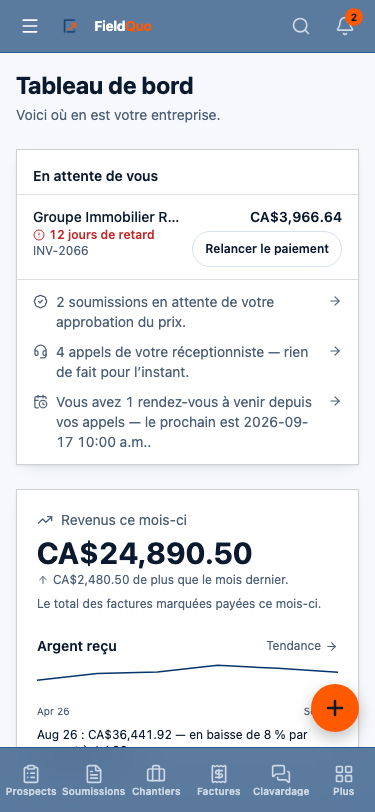
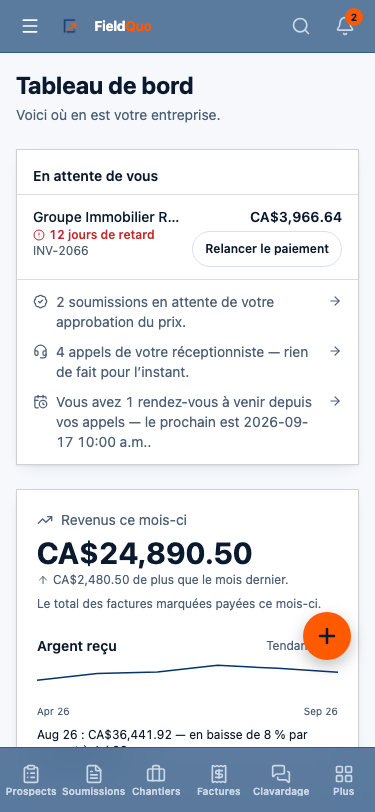
WIP: dates once, phone toolbar thinned, the added service opens, ROADMAP

Changed region(s): [[0.792, 0.7389, 0.968, 0.9236]]

diff --git a/app/components/quotes/builder/DocumentBuilder.js b/app/components/quotes/builder/DocumentBuilder.js
@@ -504,6 +504,19 @@ export default function DocumentBuilder({ b }) {
   const [templateOpen, setTemplateOpen] = useState(false);
   const [menuError, setMenuError] = useState("");
   const groupRefs = useRef({});
+  // A service added from the cards or the tiles opens unfolded — the next
+  // thing the estimator does is add a room or a line, not click "Edit".
+  const [openNext, setOpenNext] = useState(false);
+  const groupCount = b.scopeGroups.length;
+  useEffect(() => {
+    if (!openNext || groupCount === 0) return;
+    setOpenGroup(b.scopeGroups[groupCount - 1].tempId);
+    setOpenNext(false);
+  }, [openNext, groupCount, b.scopeGroups]);
+  const addAndOpen = (fn) => (...args) => {
+    fn(...args);
+    setOpenNext(true);
+  };
 
   // A room click opens the group's takeoff and lands on that room's card.
   useEffect(() => {
@@ -754,31 +767,40 @@ export default function DocumentBuilder({ b }) {
               ) : null}
             </button>
           )}
-          <button
-            type="button"
-            onClick={() => b.handleSave("draft")}
-            disabled={Boolean(b.saving) || (!isEdit && (!b.selectedClient || b.scopeGroups.length === 0))}
-            className="inline-flex items-center gap-1.5 border border-border text-foreground px-4 py-1.5 rounded-full text-sm font-semibold disabled:opacity-60"
-            data-doc-save
-          >
-            {b.saving === "draft" ? <Loader2 size={14} className="animate-spin" /> : <Save size={14} />}
-            {isEdit ? t("app.quoteEdit.saveChangesShort") : t("app.quoteNew.saveAsDraftShort")}
-          </button>
-          <SendMenu
-            primary={
-              sendable
-                ? {
-                    label: t("app.quoteNew.saveAndSend"),
-                    icon: Send,
-                    busy: b.saving === "sent",
-                    disabled: Boolean(b.saving) || (!isEdit && (!b.selectedClient || b.scopeGroups.length === 0)),
-                    onClick: () => b.handleSave("sent"),
-                  }
-                : null
-            }
-            menuLabel={sendable ? t("app.sendMenu.more", "Send…") : t("app.sendMenu.moreDecided", "More…")}
-            items={menuItems}
-          />
+          {/* Save and Save & send live here from sm up. On a phone the
+              dock at the foot already holds both under the thumb, so the
+              toolbar keeps only the menu — two Save buttons on one 375px
+              screen is the row the owner asked to have thinned. */}
+          <div className="hidden sm:flex items-center gap-2">
+            <button
+              type="button"
+              onClick={() => b.handleSave("draft")}
+              disabled={Boolean(b.saving) || (!isEdit && (!b.selectedClient || b.scopeGroups.length === 0))}
+              className="inline-flex items-center gap-1.5 border border-border text-foreground px-4 py-1.5 rounded-full text-sm font-semibold disabled:opacity-60"
+              data-doc-save
+            >
+              {b.saving === "draft" ? <Loader2 size={14} className="animate-spin" /> : <Save size={14} />}
+              {isEdit ? t("app.quoteEdit.saveChangesShort") : t("app.quoteNew.saveAsDraftShort")}
+            </button>
+            <SendMenu
+              primary={
+                sendable
+                  ? {
+                      label: t("app.quoteNew.saveAndSend"),
+                      icon: Send,
+                      busy: b.saving === "sent",
+                      disabled: Boolean(b.saving) || (!isEdit && (!b.selectedClient || b.scopeGroups.length === 0)),
+                      onClick: () => b.handleSave("sent"),
+                    }
+                  : null
+              }
+              menuLabel={sendable ? t("app.sendMenu.more", "Send…") : t("app.sendMenu.moreDecided", "More…")}
+              items={menuItems}
+            />
+          </div>
+          <div className="sm:hidden">
+            <SendMenu menuLabel={sendable ? t("app.sendMenu.more", "Send…") : t("app.sendMenu.moreDecided", "More…")} items={menuItems} />
+          </div>
         </div>
       </div>
 
@@ -867,8 +889,8 @@ export default function DocumentBuilder({ b }) {
           {b.paintingFirst && (
             <EstimateTypeFirst
               categories={b.categories}
-              onPickType={b.addPaintingEstimate}
-              onAddOther={(category, label) => b.addScopeGroup(category, label)}
+              onPickType={addAndOpen(b.addPaintingEstimate)}
+              onAddOther={addAndOpen((category, label) => b.addScopeGroup(category, label))}
               documentLanguage={b.quoteLanguage}
             />
           )}
@@ -878,12 +900,11 @@ export default function DocumentBuilder({ b }) {
               word={labels.quote}
               number={start.quoteNumber}
               numberPlaceholder={t("app.docBuilder.numberOnSave", "Numbered on first save")}
-              meta={meta}
+              // The dates print once, in the facts panel beside the client
+              // (as the quote page draws them), not under the number as well.
               edit={{
                 company: canEditCompany ? () => setEditing((e) => (e === "company" ? null : "company")) : null,
                 companyLabel: t("app.docBuilder.editCompany", "Edit company details"),
-                meta: () => setEditing((e) => (e === "validUntil" ? null : "validUntil")),
-                metaLabel: t("app.quoteEdit.validUntil"),
               }}
             />
             {editing === "company" && (
@@ -913,7 +934,7 @@ export default function DocumentBuilder({ b }) {
                   ? { label: labels.jobAddress, value: b.siteAddress, placeholder: t("app.quoteNew.jobAddressPlaceholder", "Start typing the job address…") }
                   : null
               }
-              facts={meta.map((m) => [m.label, m.value])}
+              facts={meta.length ? meta.map((m) => [m.label, m.value]) : [[labels.validUntil, t("app.quoteNew.validUntilCleared")]]}
               clientSlot={
                 !b.selectedClient || (!isEdit && editing === "client") ? (
                   <div className="mt-2" data-tour="client-picker">
@@ -1158,10 +1179,10 @@ export default function DocumentBuilder({ b }) {
                     <div className="mt-3">
                       <ServiceTiles
                         categories={b.categories}
-                        onAdd={(category, label) => {
+                        onAdd={addAndOpen((category, label) => {
                           b.addScopeGroup(category, label);
                           setShowTiles(false);
-                        }}
+                        })}
                         documentLanguage={b.quoteLanguage}
                       />
                       {b.scopeGroups.length > 0 && (

diff --git a/app/components/quotes/builder/QuoteTotalsBar.js b/app/components/quotes/builder/QuoteTotalsBar.js
@@ -525,8 +525,9 @@ export function QuoteActionsDock({
   return (
     <>
       {/* left-60 clears the desktop sidebar; full width below that breakpoint
-          where the sidebar collapses. lg:left-60, not sm: — AdminSidebar only
-          becomes a rail at `lg` (hidden lg:flex). */}
+          where the sidebar collapses. lg:left-64, not sm: — AdminSidebar only
+          becomes a rail at `lg` (hidden lg:flex), and the 2026-09-21 shell's
+          rail is w-64; the old left-60 put the bar's first 16px under it. */}
       {/* ── This bar is a "bottom dock" ──────────────────────────────────
           It sits at bottom: var(--fq-tab-bar-height) — 0 from lg up, the
           tab bar's footprint below it — and hands its own measured height
@@ -555,7 +556,7 @@ export function QuoteActionsDock({
       <div
         ref={dockRef}
         data-tour="totals"
-        className="fixed bottom-[var(--fq-tab-bar-height)] left-0 right-0 lg:left-60 bg-card border-t border-border px-4 sm:px-6 py-3 flex flex-col gap-2 sm:flex-row sm:items-center sm:justify-between sm:gap-3 z-40"
+        className="fixed bottom-[var(--fq-tab-bar-height)] left-0 right-0 lg:left-64 bg-card border-t border-border px-4 sm:px-6 py-3 flex flex-col gap-2 sm:flex-row sm:items-center sm:justify-between sm:gap-3 z-40"
       >
         <div className="flex items-baseline justify-between gap-3 min-w-0 sm:block" data-totals-figure>
           <div className="text-[11px] text-muted-foreground leading-none">

diff --git a/docs/ROADMAP.md b/docs/ROADMAP.md
@@ -1,6 +1,6 @@
 # FieldQuo — current phase and what's left
 
-Last updated: 22 September 2026 (the /app shell reorganised — a rail of 17 rows in five groups (Work · People · Money · Grow · AI) with everything else on a More page of four tiles, the settings list sliding INTO the one rail with Back (Roofr's mechanic, with Settings kept lit), a real /app/settings index of eight cards with search, a 52px top bar with `/` search over records + pages + settings, Create, the bell and an avatar menu holding Help/Plan/Settings/Appearance/Log out, the phone's More as a bottom sheet over the tab bar and a floating Create, trade gating held to one table (`ROW_TRADE_GATE`) that names no AI/schedule/money/people row, and `check:shell` proving every one of the 42 + 44 old destinations is still ≤ 2 taps away — see "The shell" below; previous line: /compare: FieldQuo vs Roofr and FieldQuo vs PaintScout, both read off the served pricing pages from a Canadian connection on 2026-09-21 before a word of copy was written — Roofr's SMS $49, Instant Estimator $149, Roofr Sites $99 and AI Receptionist $99 totalled as $396/mo of add-ons on /compare and /pricing, its $0 Starter and unlimited users conceded and its per-report measurement fees printed per report; PaintScout's $119 + $20 a user priced in the open for a shop of eleven, its Operations add-on sold separately, a `paint_takeoff` matrix entry with nine names; a new pricing unit (`UNIT_FLAT_PLUS_USAGE`) and `billsPerHead()` so no page says "they bill every login" about a vendor whose page says unlimited users; see "/compare: FieldQuo vs Roofr and FieldQuo vs PaintScout" below; previous line: the job plan, change orders with remote approval, and the client progress view: an approved quote becomes one step per line and per ticked option with hours from the takeoff, painting dependencies, a hold reason and a crew day view, gated server-side so a step cannot start before what it waits on; a change order is sent by SMS + email to a one-page addendum the homeowner signs, holds its step until signed, adds or edits a step on approval and bills as a labelled "Change order CO-2 · …" line; the portal shows the job as Done · In progress · Waiting on with the crew's photos and the change orders waiting on the client — see "The job plan" below; previous line: the quote builder's text-block library — nine painting starters in EN/FR/ES seeded once per painting company, searchable from "+ Add area or line item" beside the trade chips and the products, rich text drawn on the PDF, the email, the approval page and the detail page, priced by hours, quantity, a custom amount or not at all, "hidden on work order" carried on the line, a block translated ONCE into a quote's other language and the reviewed text stored on the block; the quote page's Send… split button — preview as client, share with staff through the crew chat, create invoice, save as template, copy link, download PDF, copy, archive; QuoteTemplate rows offered on every new quote; Quote.siteAddress prefilled for a homeowner, required for a company client, printed as "Job address", handed to the Job and geocoded there, read by the satellite measure; and "Offer 3% off for e-transfer or cheque" — Canada only, a discount never a card surcharge because of Quebec, frozen on the draft, ticked by the client at approval, folded into the invoice with the card link left off; see "The text-block library, the Send… menu, the job address and the e-transfer discount" below; previous line: field work: invoices, clock punches and their photos made without signal wait in an IndexedDB queue on the phone and replay once — punches, then photos, then invoices — under an X-Offline-Key ledger the server keeps (server wins, the phone never invents an id); public/sw.js caches the field screens network-first, switched per company under Settings → Field work (default on); the invoice editor opened from a job offers "Labour — 6.5 h × $85 · from today's clock-ins" as a server-priced line from TimeEntry ids and a rate key, billed once; every crew member gets a daily sheet (/app/daily-sheets) with objectives from the plan's tasks or typed, before/after photos, live clock stamps, upsells linked to the quote's add-ons or change orders, the coordinator's 1–5 evaluation and a bonus that exists only under a company performance-pay rule (none by default) and lands on the pay run as a "Performance bonus" line; and a weekly past-client callback rotation (Settings → Follow-ups → Past clients) lists a company's own dormant clients for a person to call, outcomes on the client's timeline, "do not call" opting the number out of the voice ledger too — never assignable to the AI front desk, whose consent rule cannot reach a client ten months after a job; and before it: the client proposal: the quote link opens a branded mini-site — sticky header with the total and Accept, a table of contents, "Your project" (the quote, with Scope of work and a day-by-day plan derived from the takeoff's hours and a stated crew size, never invented), then About us, Before & after, Important documents, Testimonials and Services, each rendered only when the company has content for it; one before/after gallery merged additively from the website block and the quote-email pairs; a company document library with measured expiry; waivers the client ticks line by line and signs, refused server-side while a box is unticked, filed on the job and shown in the portal; four set-up rows that open in place; Settings › Presentation and a Presentation tab on the quote — see "The client proposal" below; previous line: the painting takeoff, sections b1–b4 and b6 of the approved builder mockup: a painting quote opens on its estimate type — Interior, Exterior, Cabinets & millwork, Staining, Commercial — each with its own rate set of situation-named rates priced as production rate × hourly or flat per unit, picked in a searchable picker and edited on Settings › Services › Painting rates; an area is a Room or a single Surface with an editable "calculated from measurements" strip, ticks what's painted, draws as one hours-and-money table with options the homeowner ticks under the room (extra coat, premium paint, custom); staining substrates carry stain and clear coat; the den and the exterior job still reproduce to the cent; and before it: the painting takeoff, sections b1–b4 and b6 of the approved builder mockup: a painting quote opens on its estimate type — Interior, Exterior, Cabinets & millwork, Staining, Commercial — each with its own rate set of situation-named rates priced as production rate × hourly or flat per unit, picked in a searchable picker and edited on Settings › Services › Painting rates; an area is a Room or a single Surface with an editable "calculated from measurements" strip, ticks what's painted, draws as one hours-and-money table with options the homeowner ticks under the room (extra coat, premium paint, custom); staining substrates carry stain and clear coat; the den and the exterior job still reproduce to the cent; and before it: the "next steps" email: two hours after a company's card goes in, if its onboarding checklist is still open, FieldQuo sends one letter in the company's language — the trade in the subject, only the open steps numbered in the checklist's order with what each unlocks for that trade, each a link that opens the step's window on the home page, a tick list of what is done — once per company, never a demo, switch and delay on /platform/companies, sent-date on the company page)
+Last updated: 22 September 2026 (the document-shaped quote builder behind Company.quoteBuilderLayout — document for new companies, classic for the 29 existing ones until the owner flips each on /platform/companies/[id] — with one shared QuoteDocument drawn by the quote page and edited in place by the builder, the request body proved byte-identical by md5, the painting company's estimate-type cards as the FIRST screen of New quote in both layouts, and the shell's floating + kept off create/edit routes and stacked above the chat launcher — see "The document-shaped quote builder" below; previous line: the /app shell reorganised — a rail of 17 rows in five groups (Work · People · Money · Grow · AI) with everything else on a More page of four tiles, the settings list sliding INTO the one rail with Back (Roofr's mechanic, with Settings kept lit), a real /app/settings index of eight cards with search, a 52px top bar with `/` search over records + pages + settings, Create, the bell and an avatar menu holding Help/Plan/Settings/Appearance/Log out, the phone's More as a bottom sheet over the tab bar and a floating Create, trade gating held to one table (`ROW_TRADE_GATE`) that names no AI/schedule/money/people row, and `check:shell` proving every one of the 42 + 44 old destinations is still ≤ 2 taps away — see "The shell" below; previous line: /compare: FieldQuo vs Roofr and FieldQuo vs PaintScout, both read off the served pricing pages from a Canadian connection on 2026-09-21 before a word of copy was written — Roofr's SMS $49, Instant Estimator $149, Roofr Sites $99 and AI Receptionist $99 totalled as $396/mo of add-ons on /compare and /pricing, its $0 Starter and unlimited users conceded and its per-report measurement fees printed per report; PaintScout's $119 + $20 a user priced in the open for a shop of eleven, its Operations add-on sold separately, a `paint_takeoff` matrix entry with nine names; a new pricing unit (`UNIT_FLAT_PLUS_USAGE`) and `billsPerHead()` so no page says "they bill every login" about a vendor whose page says unlimited users; see "/compare: FieldQuo vs Roofr and FieldQuo vs PaintScout" below; previous line: the job plan, change orders with remote approval, and the client progress view: an approved quote becomes one step per line and per ticked option with hours from the takeoff, painting dependencies, a hold reason and a crew day view, gated server-side so a step cannot start before what it waits on; a change order is sent by SMS + email to a one-page addendum the homeowner signs, holds its step until signed, adds or edits a step on approval and bills as a labelled "Change order CO-2 · …" line; the portal shows the job as Done · In progress · Waiting on with the crew's photos and the change orders waiting on the client — see "The job plan" below; previous line: the quote builder's text-block library — nine painting starters in EN/FR/ES seeded once per painting company, searchable from "+ Add area or line item" beside the trade chips and the products, rich text drawn on the PDF, the email, the approval page and the detail page, priced by hours, quantity, a custom amount or not at all, "hidden on work order" carried on the line, a block translated ONCE into a quote's other language and the reviewed text stored on the block; the quote page's Send… split button — preview as client, share with staff through the crew chat, create invoice, save as template, copy link, download PDF, copy, archive; QuoteTemplate rows offered on every new quote; Quote.siteAddress prefilled for a homeowner, required for a company client, printed as "Job address", handed to the Job and geocoded there, read by the satellite measure; and "Offer 3% off for e-transfer or cheque" — Canada only, a discount never a card surcharge because of Quebec, frozen on the draft, ticked by the client at approval, folded into the invoice with the card link left off; see "The text-block library, the Send… menu, the job address and the e-transfer discount" below; previous line: field work: invoices, clock punches and their photos made without signal wait in an IndexedDB queue on the phone and replay once — punches, then photos, then invoices — under an X-Offline-Key ledger the server keeps (server wins, the phone never invents an id); public/sw.js caches the field screens network-first, switched per company under Settings → Field work (default on); the invoice editor opened from a job offers "Labour — 6.5 h × $85 · from today's clock-ins" as a server-priced line from TimeEntry ids and a rate key, billed once; every crew member gets a daily sheet (/app/daily-sheets) with objectives from the plan's tasks or typed, before/after photos, live clock stamps, upsells linked to the quote's add-ons or change orders, the coordinator's 1–5 evaluation and a bonus that exists only under a company performance-pay rule (none by default) and lands on the pay run as a "Performance bonus" line; and a weekly past-client callback rotation (Settings → Follow-ups → Past clients) lists a company's own dormant clients for a person to call, outcomes on the client's timeline, "do not call" opting the number out of the voice ledger too — never assignable to the AI front desk, whose consent rule cannot reach a client ten months after a job; and before it: the client proposal: the quote link opens a branded mini-site — sticky header with the total and Accept, a table of contents, "Your project" (the quote, with Scope of work and a day-by-day plan derived from the takeoff's hours and a stated crew size, never invented), then About us, Before & after, Important documents, Testimonials and Services, each rendered only when the company has content for it; one before/after gallery merged additively from the website block and the quote-email pairs; a company document library with measured expiry; waivers the client ticks line by line and signs, refused server-side while a box is unticked, filed on the job and shown in the portal; four set-up rows that open in place; Settings › Presentation and a Presentation tab on the quote — see "The client proposal" below; previous line: the painting takeoff, sections b1–b4 and b6 of the approved builder mockup: a painting quote opens on its estimate type — Interior, Exterior, Cabinets & millwork, Staining, Commercial — each with its own rate set of situation-named rates priced as production rate × hourly or flat per unit, picked in a searchable picker and edited on Settings › Services › Painting rates; an area is a Room or a single Surface with an editable "calculated from measurements" strip, ticks what's painted, draws as one hours-and-money table with options the homeowner ticks under the room (extra coat, premium paint, custom); staining substrates carry stain and clear coat; the den and the exterior job still reproduce to the cent; and before it: the painting takeoff, sections b1–b4 and b6 of the approved builder mockup: a painting quote opens on its estimate type — Interior, Exterior, Cabinets & millwork, Staining, Commercial — each with its own rate set of situation-named rates priced as production rate × hourly or flat per unit, picked in a searchable picker and edited on Settings › Services › Painting rates; an area is a Room or a single Surface with an editable "calculated from measurements" strip, ticks what's painted, draws as one hours-and-money table with options the homeowner ticks under the room (extra coat, premium paint, custom); staining substrates carry stain and clear coat; the den and the exterior job still reproduce to the cent; and before it: the "next steps" email: two hours after a company's card goes in, if its onboarding checklist is still open, FieldQuo sends one letter in the company's language — the trade in the subject, only the open steps numbered in the checklist's order with what each unlocks for that trade, each a link that opens the step's window on the home page, a tick list of what is done — once per company, never a demo, switch and delay on /platform/companies, sent-date on the company page)
 **Update this line when you finish something — replace it, don't append.** Seven
 stacked "Last updated" lines had accumulated here, each agent adding one rather
 than editing the last, which left the file unable to answer the single question
@@ -9,6 +9,104 @@ it exists to answer.
 Read `AGENTS.md` first for the product goal and the non-negotiables.
 
 ---
+
+## The document-shaped quote builder, and the painter's first screen (22 September 2026)
+
+Mockup b7, approved 2026-09-21 ("keep it like that"): what the estimator
+edits is what the client reads. And the b1 fix the owner asked for on
+production — "I don't see the changes in the UI/UX for painting": the
+estimate-type cards had landed INSIDE the takeoff, behind a service tile,
+with the type preselected, so the approved first screen was never seen.
+
+**The flag.** `Company.quoteBuilderLayout` — "document" | "classic".
+Added to the live DB with default `'classic'` (so all 29 existing companies
+read classic), then the column default altered to `'document'` for every
+company created from now on; the schema says `@default("document")`. Read
+by GET /api/settings/business-info into the builder's bootstrap; written
+ONLY by PATCH /api/platform/companies/[id] (company:manage, audited with the
+previous value) from a "Quote builder" card on /platform/companies/[id]
+(`CompanyBuilderLayout.js`). The owner decides the rollout, one company at
+a time; nothing is flipped by code. `lib/quotes/builderLayout.js` is the
+closed list; an absent or junk value resolves to classic.
+
+**One state, two arrangements.** `QuoteBuilderForm` keeps every piece of
+state, every handler, the derivation and the save, and hands the document
+layout (`app/components/quotes/builder/DocumentBuilder.js`) the SAME
+closures the classic markup calls — `renderGroupEditor` (every trade's
+takeoff, unit pricing, intake, tiers, the line table with the library),
+`renderCostMarginPanel`, notes, photos, process notes, the AI review, the
+send confirm. The request body left the component for
+`lib/quotes/builderRequest.js`; `scripts/check-doc-builder.mjs` runs six
+fixture saves through it and through a transcript of the f74a2d13 inline
+literal and requires the md5s to match (they do — printed by the check).
+
+**The document.** `app/components/document/QuoteDocument.js` — frame with
+the brand rule, masthead, prepared-for + job address + facts, one card per
+service, totals with the band — is now drawn by BOTH the quote page
+(`app/app/quotes/[id]/page.js`, read-only; its inline mirror is gone) and
+the builder (with `edit` callbacks). The check reads the source: the brand
+rule, the total band and the masthead exist once. In the builder: click
+the company block → Settings › Company saved in place (user:manage); click
+the contact → the client's record (clientsProperties full_edit); click the
+job address, the dates, discount, tax → the same QuoteTermsFields the
+classic card holds (`QuoteTotalsBar.js` is split into four exported pieces,
+its default export unchanged); click a room → the group's takeoff opens
+scrolled to that room's card (`data-paint-area`); click a text block → the
+RichTextEditor in place. A painting takeoff's rooms draw as the mockup's
+cards from `paintTakeoff()` — "Walls — 496 sqft, 2 coats $568.61", "Option:
+Ceiling + $227.43" under the room it belongs to — and a stored quote's
+`QuoteAddOn.areaLabel` offers sit under the line that names them.
+Subtotal · e-transfer / cheque line (Canada, from the frozen pct on a sent
+quote or the company switch on a draft) · tax with the taxLine sentence ·
+the band. Tabs: Estimate · Presentation (PresentationPanel + process notes
++ photos) · Work order (the job's link and PDF via `lib/workOrder/url.js`
+when a job exists; else the hidden-on-work-order switches and a crew
+preview from `buildWorkOrderModel`, which carries no money) · Notes (the
+internal review box + site visit). Cost & margin is a right-hand drawer
+(bottom sheet on a phone) behind a "Cost & margin · 29%" button, staff-only,
+never inside the article. Save + the existing SendMenu top-right (menu only
+on a phone — the dock has the buttons); the shared `QuoteActionsDock` at
+the foot, now `lg:left-64` to clear the new rail.
+
+**Not inline-editable, by design:** the quote number (server-minted on the
+first save), the issue date (`sentAt`/`createdAt`), the estimator's name
+(on no client surface — it stays in the staff strip above the document), a
+stored group's takeoff (frozen; its lines open in the line table).
+
+**The painter's first screen (b1).** `EstimateTypeFirst.js` renders the
+exported `EstimateTypeCards` BEFORE the client box in both layouts when a
+company has a painting trade enabled; the pick adds the matching painting
+service itself (exterior → exterior_painting, everything else → the
+interior book, which holds the cabinet, staining and commercial substrates)
+with `takeoff.estimateType` set and the takeoff already open — no tile step
+for painting; a mixed-trade company gets "Other trades" (the tiles); a
+company with no painting never sees the cards. Executed in the check for
+both layouts, both company shapes.
+
+**The shell's floating +.** Hidden on every /new, /edit, /import route and
+the kitchen designer (`createFabHiddenOn`, executed in the check), and
+stacked ABOVE Jennifer's launcher (bottom: tab bar + dock + 5.5rem) instead
+of on it — the two owner notes on the live shell.
+
+**Photographed** (harness rows 195–205, en/fr/es): the draft Q-1045 in both
+layouts at 1280 and 375, the cost drawer, the Work order tab, New quote for
+a painting company in both layouts at 1280 and 375 with the cards first,
+and the Interior pick landing in the document with the takeoff open.
+
+### Still owed here
+
+- The takeoff's room card re-draws the estimate-type cards inside the group
+  (PaintAreas' own header) — legitimate for changing the type, but a second
+  copy of the question on the same screen; fold it into a "Change type"
+  link once the owner has used it.
+- The other docks (invoices/new, availability, links) still sit at
+  `lg:left-60` / `lg:left-64` over a rail that can collapse to 76px — a
+  `--fq-rail-width` variable would let every dock follow the rail.
+- 43 new strings landed in all nine languages; es/uk/pa/tl/de/zh/it are
+  drafts pending a fluent read, as the catalogue's APP_REVIEW_PENDING says.
+- Pre-existing red on origin/main, not touched: `check:approval-screens`
+  (lawn_estimate has no label) and `check:client-proposal` (a /60 ink on
+  QuoteApproval.js).
 
 ## The shell: seventeen rows, More, Settings in the one rail, a top bar (22 September 2026)
 
